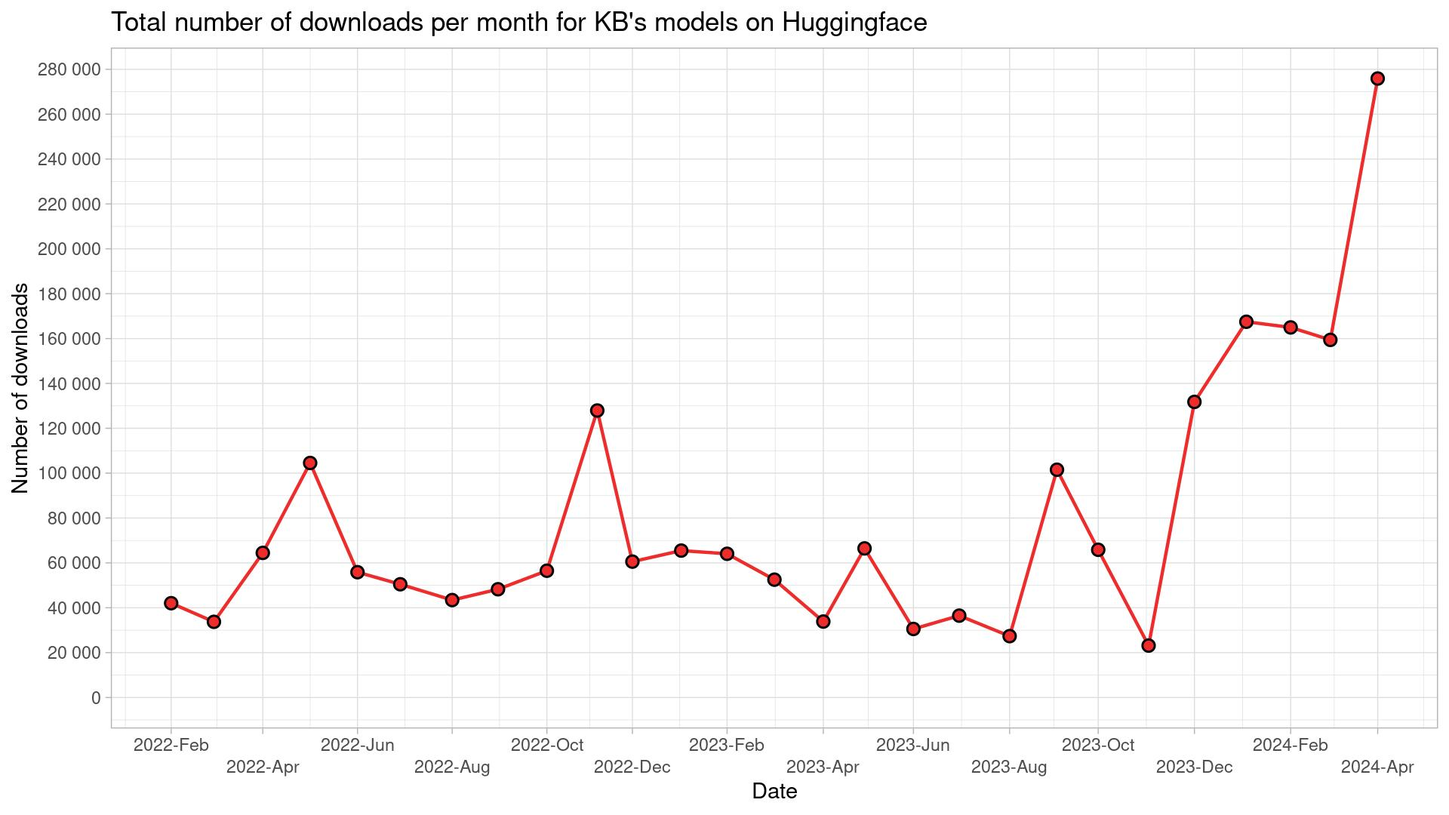
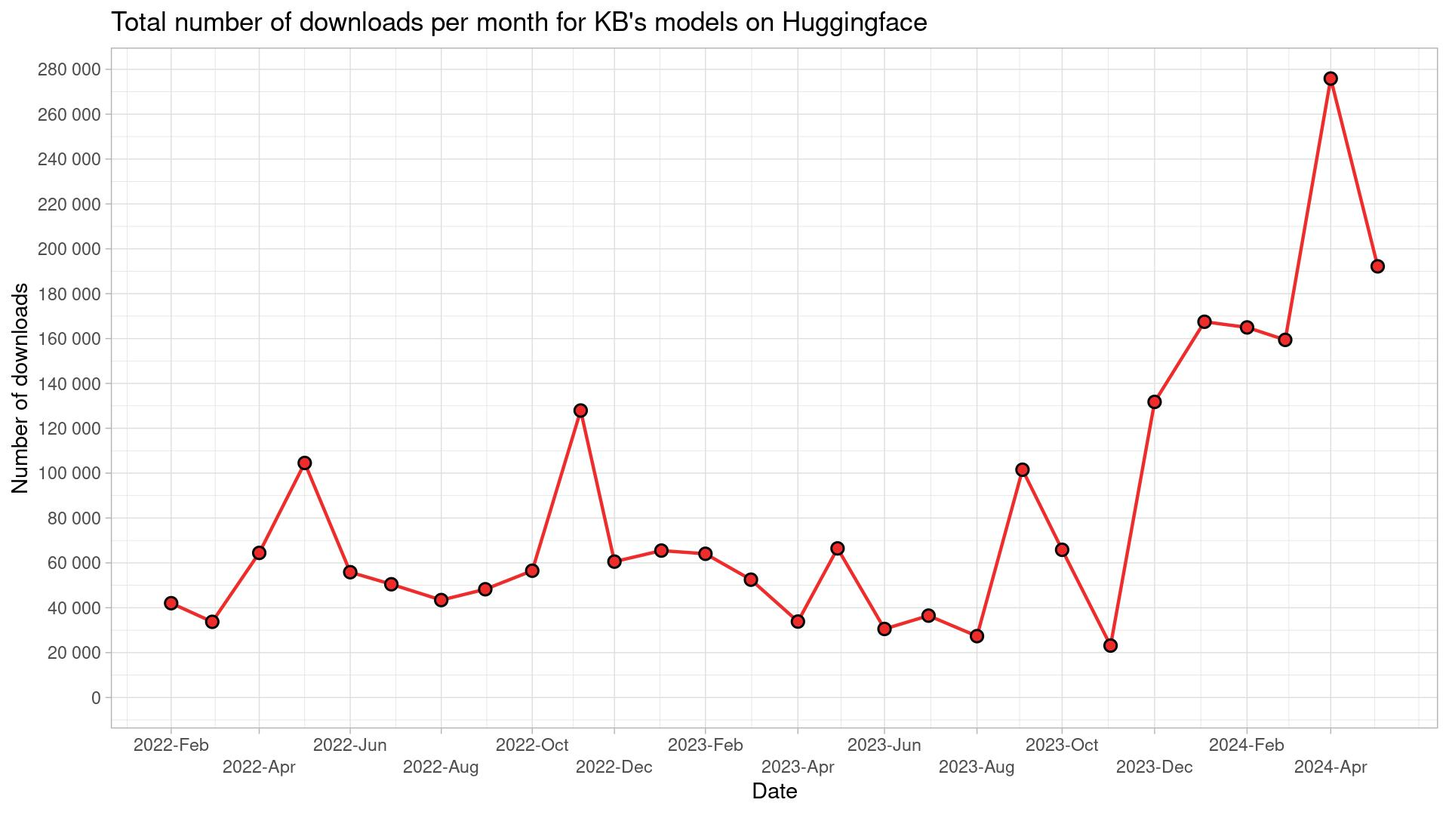
May 2024 update

diff --git a/README.md b/README.md
@@ -12,42 +12,61 @@ Script is run monthly, and a monthly `csv`-file outputted to `/data` folder.
 
 ## Table of downloads
 
-|model_name                                        | 2022-02| 2022-03| 2022-04| 2022-05| 2022-06| 2022-07| 2022-08| 2022-09| 2022-10| 2022-11| 2022-12| 2023-01| 2023-02| 2023-03| 2023-04| 2023-05| 2023-06| 2023-07| 2023-08| 2023-09| 2023-10| 2023-11| 2023-12| 2024-01| 2024-02| 2024-03| 2024-04|
-|:-------------------------------------------------|-------:|-------:|-------:|-------:|-------:|-------:|-------:|-------:|-------:|-------:|-------:|-------:|-------:|-------:|-------:|-------:|-------:|-------:|-------:|-------:|-------:|-------:|-------:|-------:|-------:|-------:|-------:|
-|albert-base-swedish-cased-alpha                   |     126|     252|      61|      52|      52|      28|      31|      17|      30|      64|     229|      37|      32|      75|      13|      17|      24|      39|      14|      18|       4|      71|      75|      74|      20|      27|     100|
-|asr-voxrex-bart-base                              |      11|      10|      19|       5|       2|       1|       1|       3|       2|       3|       2|       4|       9|      15|       7|       2|       4|       7|       4|       3|       8|       2|       5|       1|       6|       8|       5|
-|bart-base-swedish-cased                           |      74|      12|     116|     126|      32|      18|      41|      56|      81|       6|       9|      18|      41|      70|     110|      60|      50|      40|      23|       9|      63|      44|      42|      11|     129|      14|     119|
-|bert-base-swedish-cased                           |   16509|   25080|   49286|   82528|   38802|   29511|   17012|   25106|   36702|   92636|   44016|   28164|   47819|   28864|   17684|   28878|   16390|   24502|   16303|   54271|   29238|    6625|    7620|   17149|    8106|    6290|   10094|
-|bert-base-swedish-cased-alpha                     |      22|      24|    1362|      34|       8|      73|       7|      14|      14|      14|      10|     160|     151|       6|       9|       5|       6|       9|       2|      12|       3|       4|       5|       3|       5|      11|      15|
-|bert-base-swedish-cased-ner                       |   19891|    3353|    4783|    4221|   12487|   17406|   24290|   20200|   14852|   11251|   10014|    9759|    9957|   14508|    9834|   12293|    9868|    9701|    8258|    8767|   14214|   10149|  117977|  143050|  139912|  131659|  148695|
-|bert-base-swedish-cased-neriob                    |       8|      87|      34|      25|       4|      44|       2|       1|      62|      10|       5|      31|       5|       8|       6|       6|       9|      18|       2|       1|       0|      19|       8|       5|       5|      11|      15|
-|bert-base-swedish-cased-new                       |      NA|       0|     377|    1069|     786|      10|     238|      69|     225|     168|     163|      46|      44|     352|     303|      33|      52|      69|      73|     211|      96|      84|      30|      34|       5|      53|      59|
-|bert-base-swedish-cased-pos                       |     428|     179|     107|     104|     168|     310|       2|       2|     467|    7959|    2083|   21410|    1713|     300|      15|      28|      58|      64|       9|      75|      28|     312|     159|     166|     239|      33|      20|
-|bert-base-swedish-cased-reallysimple-ner          |       6|      32|       9|       7|      11|      10|       3|       8|      10|      17|       4|      16|     159|     401|     211|     334|     327|     326|      74|     152|     341|     304|     274|       3|       7|      14|      14|
-|bert-base-swedish-cased-squad-experimental        |     323|     136|      45|      23|      40|     182|      25|      27|     101|      10|      22|      62|      56|     643|     130|   16262|      29|      29|       4|      16|      10|     280|      64|      34|     275|      30|      44|
-|bert-base-swedish-lowermix-reallysimple-ner       |       6|     453|     248|     312|     901|     991|     930|     871|    2274|    3958|    1963|    3010|    2567|    2485|    3919|    6258|    2875|     121|      53|     417|    4874|     769|     327|     713|      81|     111|     696|
-|electra-base-swedish-cased-discriminator          |     317|     143|     149|    1404|       2|       3|       3|       3|       2|       5|       0|       7|       2|       0|       6|       7|       4|       8|       0|       1|       0|       4|       0|       1|       4|       5|      15|
-|electra-base-swedish-cased-generator              |       9|      15|      26|      31|       2|      19|       1|      18|       1|       9|       4|      10|       4|      14|      88|      78|     107|      72|       3|      15|      39|      12|       7|      11|       8|      52|      53|
-|electra-small-swedish-cased-discriminator         |      12|       5|    1467|    3804|      10|       5|       2|       2|       2|      10|       8|      12|     153|       1|       9|       2|       6|       4|      18|       6|       0|       3|       0|       7|      11|      13|       9|
-|electra-small-swedish-cased-generator             |      NA|       3|     138|      14|       4|      19|       2|       3|       4|       8|       6|      11|       4|       3|       6|      14|       4|       9|       0|       1|       0|     131|       5|       3|       5|       9|      13|
-|emotional-classification                          |      NA|      NA|      NA|      NA|      NA|      NA|      NA|      NA|      NA|      NA|      NA|      NA|      NA|      NA|      NA|      NA|      NA|     155|       3|       1|       2|      27|       9|       0|       0|      13|      63|
-|megatron-bert-base-swedish-cased-125k             |      NA|       0|     353|       0|       2|       8|       1|       3|     131|      55|     158|      27|      21|      19|       7|       6|      10|      10|       4|       2|       0|       4|      29|      22|       5|       3|       4|
-|megatron-bert-base-swedish-cased-600k             |      NA|      10|     288|      87|      30|      16|      16|      17|     111|      12|      20|     194|      27|      49|      13|      15|     100|      22|       2|       2|      15|      12|      41|      21|       5|      67|       6|
-|megatron-bert-large-swedish-cased-110k            |      NA|       0|     346|      77|       4|       4|       0|       1|       1|     171|     160|      15|       8|      23|       4|       2|       4|       3|       0|   33671|   14716|      38|      63|     106|      29|      70|      79|
-|megatron-bert-large-swedish-cased-165-zero-shot   |      NA|      NA|      NA|      NA|      NA|      NA|      NA|      NA|      NA|      NA|       5|      55|      26|      63|      20|     621|      69|     135|      58|     170|      48|     243|     123|      40|     127|     147|      56|
-|megatron-bert-large-swedish-cased-165k            |      NA|      NA|       9|      13|      40|      19|      53|       2|      18|     336|     327|      21|      34|      67|      43|      56|      36|      52|      13|      86|      37|      12|     343|     153|      24|      18|      24|
-|megatron.bert-large.unigram-64k-pretok.500k-steps |      NA|      NA|      NA|      NA|      NA|      NA|      NA|      NA|      NA|      NA|      NA|      NA|      NA|      NA|      NA|      NA|      NA|      NA|      NA|      NA|      NA|      NA|      NA|      NA|      NA|     310|      11|
-|piper-tts-nst-swedish                             |      NA|      NA|      NA|      NA|      NA|      NA|      NA|      NA|      NA|      NA|      NA|      NA|      NA|      NA|      NA|       1|       8|       3|       0|       0|       0|       1|       0|       0|       0|       3|       7|
-|roberta-base-swedish-cased                        |       7|       7|     471|       8|      78|       5|      67|       2|       0|       5|       5|      37|     150|       3|       6|     204|      10|       9|       1|       2|       2|       2|       3|       3|      30|      15|       9|
-|robust-swedish-sentiment-multiclass               |      NA|      NA|      NA|      NA|      NA|      NA|      NA|      NA|      NA|      NA|      NA|      NA|      NA|      NA|      NA|      NA|      12|     296|       8|      58|     119|    1505|    2263|    2206|    2178|    2895|    7783|
-|sentence-bert-swedish-cased                       |    2033|    1988|    2079|    8110|     721|    1299|     304|    1157|     597|    1008|     887|    1441|     546|    3499|     955|     970|     327|     328|    2135|    2841|    1071|    1067|    1258|     383|    1733|    6143|  101722|
-|swedish-spacy-pipeline                            |      65|      22|       5|       2|       5|       9|       1|       2|       0|       1|       3|       4|       6|      90|       3|       1|       0|       1|       3|       9|       5|       5|       5|       3|      56|       5|       4|
-|wav2vec2-base-voxpopuli-sv-swedish                |      NA|      21|      19|       7|       1|      NA|       1|       5|      99|       6|       2|      13|      57|      12|      56|       4|      26|       9|       0|       1|       7|       4|       2|     113|       5|       6|      12|
-|wav2vec2-large-voxpopuli-sv-swedish               |      58|      32|      73|      57|      24|       5|       5|      11|      59|      15|       7|      23|       9|      10|      13|      10|       7|      14|       4|       1|       5|      26|       2|       3|      12|     117|      14|
-|wav2vec2-large-voxrex                             |     780|     609|     996|      57|     102|      55|      13|      34|      74|       4|       0|      56|      17|      11|       8|      17|       4|      15|       2|       1|      13|       6|       3|       1|      12|      10|      10|
-|wav2vec2-large-voxrex-swedish                     |    1356|    1151|    1534|    2331|    1277|     334|     361|     611|     531|   10157|     146|     770|     411|     732|     290|     225|      65|     330|     217|     624|     752|     769|     829|     392|    3000|    2389|    3129|
-|wav2vec2-large-xlsr-53-swedish                    |      NA|     112|      55|      32|     259|      91|      19|       9|      61|      26|     307|      71|      32|      76|      26|      31|      45|      65|      50|      77|     126|     586|     188|    2766|    8897|    8785|    2962|
-|whisper-large-rixvox                              |      NA|      NA|      NA|      NA|      NA|      NA|      NA|      NA|      NA|      NA|      NA|      NA|      NA|     113|      56|       8|       9|      12|       9|       6|       0|      16|       0|       2|      19|      38|      18|
-|whisper-small-rixvox                              |      NA|      NA|      NA|      NA|      NA|      NA|      NA|      NA|      NA|      NA|      NA|      NA|      NA|       3|       1|       6|       2|       7|       0|       0|       0|       1|       0|       0|       0|      13|       2|
-|whisper-tiny-rixvox                               |      NA|      NA|      NA|      NA|      NA|      NA|      NA|      NA|      NA|      NA|      NA|      NA|      NA|       9|       1|       5|       4|       7|       3|       0|       0|       1|       0|       0|       2|      12|       6|
-> 
+|model_name                                           | 2022-02| 2022-03| 2022-04| 2022-05| 2022-06| 2022-07| 2022-08| 2022-09| 2022-10| 2022-11| 2022-12| 2023-01| 2023-02| 2023-03| 2023-04| 2023-05| 2023-06| 2023-07| 2023-08| 2023-09| 2023-10| 2023-11| 2023-12| 2024-01| 2024-02| 2024-03| 2024-04| 2024-05|
+|:----------------------------------------------------|-------:|-------:|-------:|-------:|-------:|-------:|-------:|-------:|-------:|-------:|-------:|-------:|-------:|-------:|-------:|-------:|-------:|-------:|-------:|-------:|-------:|-------:|-------:|-------:|-------:|-------:|-------:|-------:|
+|albert-base-swedish-cased-alpha                      |     126|     252|      61|      52|      52|      28|      31|      17|      30|      64|     229|      37|      32|      75|      13|      17|      24|      39|      14|      18|       4|      71|      75|      74|      20|      27|     100|     220|
+|asr-voxrex-bart-base                                 |      11|      10|      19|       5|       2|       1|       1|       3|       2|       3|       2|       4|       9|      15|       7|       2|       4|       7|       4|       3|       8|       2|       5|       1|       6|       8|       5|       8|
+|bart-base-swedish-cased                              |      74|      12|     116|     126|      32|      18|      41|      56|      81|       6|       9|      18|      41|      70|     110|      60|      50|      40|      23|       9|      63|      44|      42|      11|     129|      14|     119|      14|
+|bert-base-swedish-cased                              |   16509|   25080|   49286|   82528|   38802|   29511|   17012|   25106|   36702|   92636|   44016|   28164|   47819|   28864|   17684|   28878|   16390|   24502|   16303|   54271|   29238|    6625|    7620|   17149|    8106|    6290|   10094|    6253|
+|bert-base-swedish-cased-alpha                        |      22|      24|    1362|      34|       8|      73|       7|      14|      14|      14|      10|     160|     151|       6|       9|       5|       6|       9|       2|      12|       3|       4|       5|       3|       5|      11|      15|       2|
+|bert-base-swedish-cased-ner                          |   19891|    3353|    4783|    4221|   12487|   17406|   24290|   20200|   14852|   11251|   10014|    9759|    9957|   14508|    9834|   12293|    9868|    9701|    8258|    8767|   14214|   10149|  117977|  143050|  139912|  131659|  148695|  144309|
+|bert-base-swedish-cased-neriob                       |       8|      87|      34|      25|       4|      44|       2|       1|      62|      10|       5|      31|       5|       8|       6|       6|       9|      18|       2|       1|       0|      19|       8|       5|       5|      11|      15|       3|
+|bert-base-swedish-cased-new                          |      NA|       0|     377|    1069|     786|      10|     238|      69|     225|     168|     163|      46|      44|     352|     303|      33|      52|      69|      73|     211|      96|      84|      30|      34|       5|      53|      59|     279|
+|bert-base-swedish-cased-pos                          |     428|     179|     107|     104|     168|     310|       2|       2|     467|    7959|    2083|   21410|    1713|     300|      15|      28|      58|      64|       9|      75|      28|     312|     159|     166|     239|      33|      20|      12|
+|bert-base-swedish-cased-reallysimple-ner             |       6|      32|       9|       7|      11|      10|       3|       8|      10|      17|       4|      16|     159|     401|     211|     334|     327|     326|      74|     152|     341|     304|     274|       3|       7|      14|      14|       4|
+|bert-base-swedish-cased-squad-experimental           |     323|     136|      45|      23|      40|     182|      25|      27|     101|      10|      22|      62|      56|     643|     130|   16262|      29|      29|       4|      16|      10|     280|      64|      34|     275|      30|      44|       4|
+|bert-base-swedish-lowermix-reallysimple-ner          |       6|     453|     248|     312|     901|     991|     930|     871|    2274|    3958|    1963|    3010|    2567|    2485|    3919|    6258|    2875|     121|      53|     417|    4874|     769|     327|     713|      81|     111|     696|     104|
+|electra-base-swedish-cased-discriminator             |     317|     143|     149|    1404|       2|       3|       3|       3|       2|       5|       0|       7|       2|       0|       6|       7|       4|       8|       0|       1|       0|       4|       0|       1|       4|       5|      15|       2|
+|electra-base-swedish-cased-generator                 |       9|      15|      26|      31|       2|      19|       1|      18|       1|       9|       4|      10|       4|      14|      88|      78|     107|      72|       3|      15|      39|      12|       7|      11|       8|      52|      53|       6|
+|electra-small-swedish-cased-discriminator            |      12|       5|    1467|    3804|      10|       5|       2|       2|       2|      10|       8|      12|     153|       1|       9|       2|       6|       4|      18|       6|       0|       3|       0|       7|      11|      13|       9|       4|
+|electra-small-swedish-cased-generator                |      NA|       3|     138|      14|       4|      19|       2|       3|       4|       8|       6|      11|       4|       3|       6|      14|       4|       9|       0|       1|       0|     131|       5|       3|       5|       9|      13|       2|
+|emotional-classification                             |      NA|      NA|      NA|      NA|      NA|      NA|      NA|      NA|      NA|      NA|      NA|      NA|      NA|      NA|      NA|      NA|      NA|     155|       3|       1|       2|      27|       9|       0|       0|      13|      63|       1|
+|megatron-bert-base-swedish-cased-125k                |      NA|       0|     353|       0|       2|       8|       1|       3|     131|      55|     158|      27|      21|      19|       7|       6|      10|      10|       4|       2|       0|       4|      29|      22|       5|       3|       4|      67|
+|megatron-bert-base-swedish-cased-600k                |      NA|      10|     288|      87|      30|      16|      16|      17|     111|      12|      20|     194|      27|      49|      13|      15|     100|      22|       2|       2|      15|      12|      41|      21|       5|      67|       6|      71|
+|megatron-bert-large-swedish-cased-110k               |      NA|       0|     346|      77|       4|       4|       0|       1|       1|     171|     160|      15|       8|      23|       4|       2|       4|       3|       0|   33671|   14716|      38|      63|     106|      29|      70|      79|      43|
+|megatron-bert-large-swedish-cased-165-zero-shot      |      NA|      NA|      NA|      NA|      NA|      NA|      NA|      NA|      NA|      NA|       5|      55|      26|      63|      20|     621|      69|     135|      58|     170|      48|     243|     123|      40|     127|     147|      56|     123|
+|megatron-bert-large-swedish-cased-165k               |      NA|      NA|       9|      13|      40|      19|      53|       2|      18|     336|     327|      21|      34|      67|      43|      56|      36|      52|      13|      86|      37|      12|     343|     153|      24|      18|      24|      15|
+|megatron.bert-base.bpe-32k-no_pretok.25k-steps       |      NA|      NA|      NA|      NA|      NA|      NA|      NA|      NA|      NA|      NA|      NA|      NA|      NA|      NA|      NA|      NA|      NA|      NA|      NA|      NA|      NA|      NA|      NA|      NA|      NA|      NA|      NA|       3|
+|megatron.bert-base.bpe-64k-no_pretok.25k-steps       |      NA|      NA|      NA|      NA|      NA|      NA|      NA|      NA|      NA|      NA|      NA|      NA|      NA|      NA|      NA|      NA|      NA|      NA|      NA|      NA|      NA|      NA|      NA|      NA|      NA|      NA|      NA|       3|
+|megatron.bert-base.spe-bpe-32k-no_pretok.25k-steps   |      NA|      NA|      NA|      NA|      NA|      NA|      NA|      NA|      NA|      NA|      NA|      NA|      NA|      NA|      NA|      NA|      NA|      NA|      NA|      NA|      NA|      NA|      NA|      NA|      NA|      NA|      NA|       3|
+|megatron.bert-base.spe-bpe-32k-pretok.25k-steps      |      NA|      NA|      NA|      NA|      NA|      NA|      NA|      NA|      NA|      NA|      NA|      NA|      NA|      NA|      NA|      NA|      NA|      NA|      NA|      NA|      NA|      NA|      NA|      NA|      NA|      NA|      NA|       3|
+|megatron.bert-base.spe-bpe-64k-no_pretok.25k-steps   |      NA|      NA|      NA|      NA|      NA|      NA|      NA|      NA|      NA|      NA|      NA|      NA|      NA|      NA|      NA|      NA|      NA|      NA|      NA|      NA|      NA|      NA|      NA|      NA|      NA|      NA|      NA|       3|
+|megatron.bert-base.spe-bpe-64k-pretok.25k-steps      |      NA|      NA|      NA|      NA|      NA|      NA|      NA|      NA|      NA|      NA|      NA|      NA|      NA|      NA|      NA|      NA|      NA|      NA|      NA|      NA|      NA|      NA|      NA|      NA|      NA|      NA|      NA|       3|
+|megatron.bert-base.unigram-32k-no_pretok.25k-steps   |      NA|      NA|      NA|      NA|      NA|      NA|      NA|      NA|      NA|      NA|      NA|      NA|      NA|      NA|      NA|      NA|      NA|      NA|      NA|      NA|      NA|      NA|      NA|      NA|      NA|      NA|      NA|       3|
+|megatron.bert-base.unigram-32k-pretok.25k-steps      |      NA|      NA|      NA|      NA|      NA|      NA|      NA|      NA|      NA|      NA|      NA|      NA|      NA|      NA|      NA|      NA|      NA|      NA|      NA|      NA|      NA|      NA|      NA|      NA|      NA|      NA|      NA|       3|
+|megatron.bert-base.unigram-64k-no_pretok.25k-steps   |      NA|      NA|      NA|      NA|      NA|      NA|      NA|      NA|      NA|      NA|      NA|      NA|      NA|      NA|      NA|      NA|      NA|      NA|      NA|      NA|      NA|      NA|      NA|      NA|      NA|      NA|      NA|       3|
+|megatron.bert-base.unigram-64k-pretok.25k-steps      |      NA|      NA|      NA|      NA|      NA|      NA|      NA|      NA|      NA|      NA|      NA|      NA|      NA|      NA|      NA|      NA|      NA|      NA|      NA|      NA|      NA|      NA|      NA|      NA|      NA|      NA|      NA|       3|
+|megatron.bert-base.wordpiece-32k-no_pretok.25k-steps |      NA|      NA|      NA|      NA|      NA|      NA|      NA|      NA|      NA|      NA|      NA|      NA|      NA|      NA|      NA|      NA|      NA|      NA|      NA|      NA|      NA|      NA|      NA|      NA|      NA|      NA|      NA|       3|
+|megatron.bert-base.wordpiece-32k-pretok.25k-steps    |      NA|      NA|      NA|      NA|      NA|      NA|      NA|      NA|      NA|      NA|      NA|      NA|      NA|      NA|      NA|      NA|      NA|      NA|      NA|      NA|      NA|      NA|      NA|      NA|      NA|      NA|      NA|       9|
+|megatron.bert-base.wordpiece-64k-no_pretok.25k-steps |      NA|      NA|      NA|      NA|      NA|      NA|      NA|      NA|      NA|      NA|      NA|      NA|      NA|      NA|      NA|      NA|      NA|      NA|      NA|      NA|      NA|      NA|      NA|      NA|      NA|      NA|      NA|       3|
+|megatron.bert-base.wordpiece-64k-pretok.25k-steps    |      NA|      NA|      NA|      NA|      NA|      NA|      NA|      NA|      NA|      NA|      NA|      NA|      NA|      NA|      NA|      NA|      NA|      NA|      NA|      NA|      NA|      NA|      NA|      NA|      NA|      NA|      NA|       3|
+|megatron.bert-large.bpe-64k-no_pretok.25k-steps      |      NA|      NA|      NA|      NA|      NA|      NA|      NA|      NA|      NA|      NA|      NA|      NA|      NA|      NA|      NA|      NA|      NA|      NA|      NA|      NA|      NA|      NA|      NA|      NA|      NA|      NA|      NA|       3|
+|megatron.bert-large.spe-bpe-32k-pretok.25k-steps     |      NA|      NA|      NA|      NA|      NA|      NA|      NA|      NA|      NA|      NA|      NA|      NA|      NA|      NA|      NA|      NA|      NA|      NA|      NA|      NA|      NA|      NA|      NA|      NA|      NA|      NA|      NA|       3|
+|megatron.bert-large.unigram-32k-pretok.25k-steps     |      NA|      NA|      NA|      NA|      NA|      NA|      NA|      NA|      NA|      NA|      NA|      NA|      NA|      NA|      NA|      NA|      NA|      NA|      NA|      NA|      NA|      NA|      NA|      NA|      NA|      NA|      NA|       3|
+|megatron.bert-large.unigram-64k-pretok.25k-steps     |      NA|      NA|      NA|      NA|      NA|      NA|      NA|      NA|      NA|      NA|      NA|      NA|      NA|      NA|      NA|      NA|      NA|      NA|      NA|      NA|      NA|      NA|      NA|      NA|      NA|      NA|      NA|       3|
+|megatron.bert-large.unigram-64k-pretok.500k-steps    |      NA|      NA|      NA|      NA|      NA|      NA|      NA|      NA|      NA|      NA|      NA|      NA|      NA|      NA|      NA|      NA|      NA|      NA|      NA|      NA|      NA|      NA|      NA|      NA|      NA|     310|      11|       1|
+|megatron.bert-large.wordpiece-32k-pretok.25k-steps   |      NA|      NA|      NA|      NA|      NA|      NA|      NA|      NA|      NA|      NA|      NA|      NA|      NA|      NA|      NA|      NA|      NA|      NA|      NA|      NA|      NA|      NA|      NA|      NA|      NA|      NA|      NA|       3|
+|megatron.bert-large.wordpiece-64k-pretok.25k-steps   |      NA|      NA|      NA|      NA|      NA|      NA|      NA|      NA|      NA|      NA|      NA|      NA|      NA|      NA|      NA|      NA|      NA|      NA|      NA|      NA|      NA|      NA|      NA|      NA|      NA|      NA|      NA|       9|
+|piper-tts-nst-swedish                                |      NA|      NA|      NA|      NA|      NA|      NA|      NA|      NA|      NA|      NA|      NA|      NA|      NA|      NA|      NA|       1|       8|       3|       0|       0|       0|       1|       0|       0|       0|       3|       7|      11|
+|roberta-base-swedish-cased                           |       7|       7|     471|       8|      78|       5|      67|       2|       0|       5|       5|      37|     150|       3|       6|     204|      10|       9|       1|       2|       2|       2|       3|       3|      30|      15|       9|       3|
+|robust-swedish-sentiment-multiclass                  |      NA|      NA|      NA|      NA|      NA|      NA|      NA|      NA|      NA|      NA|      NA|      NA|      NA|      NA|      NA|      NA|      12|     296|       8|      58|     119|    1505|    2263|    2206|    2178|    2895|    7783|    2968|
+|sentence-bert-swedish-cased                          |    2033|    1988|    2079|    8110|     721|    1299|     304|    1157|     597|    1008|     887|    1441|     546|    3499|     955|     970|     327|     328|    2135|    2841|    1071|    1067|    1258|     383|    1733|    6143|  101722|    8376|
+|swedish-spacy-pipeline                               |      65|      22|       5|       2|       5|       9|       1|       2|       0|       1|       3|       4|       6|      90|       3|       1|       0|       1|       3|       9|       5|       5|       5|       3|      56|       5|       4|       2|
+|wav2vec2-base-voxpopuli-sv-swedish                   |      NA|      21|      19|       7|       1|      NA|       1|       5|      99|       6|       2|      13|      57|      12|      56|       4|      26|       9|       0|       1|       7|       4|       2|     113|       5|       6|      12|       4|
+|wav2vec2-large-voxpopuli-sv-swedish                  |      58|      32|      73|      57|      24|       5|       5|      11|      59|      15|       7|      23|       9|      10|      13|      10|       7|      14|       4|       1|       5|      26|       2|       3|      12|     117|      14|      13|
+|wav2vec2-large-voxrex                                |     780|     609|     996|      57|     102|      55|      13|      34|      74|       4|       0|      56|      17|      11|       8|      17|       4|      15|       2|       1|      13|       6|       3|       1|      12|      10|      10|      20|
+|wav2vec2-large-voxrex-swedish                        |    1356|    1151|    1534|    2331|    1277|     334|     361|     611|     531|   10157|     146|     770|     411|     732|     290|     225|      65|     330|     217|     624|     752|     769|     829|     392|    3000|    2389|    3129|    4330|
+|wav2vec2-large-xlsr-53-swedish                       |      NA|     112|      55|      32|     259|      91|      19|       9|      61|      26|     307|      71|      32|      76|      26|      31|      45|      65|      50|      77|     126|     586|     188|    2766|    8897|    8785|    2962|   24811|
+|whisper-large-rixvox                                 |      NA|      NA|      NA|      NA|      NA|      NA|      NA|      NA|      NA|      NA|      NA|      NA|      NA|     113|      56|       8|       9|      12|       9|       6|       0|      16|       0|       2|      19|      38|      18|      12|
+|whisper-small-rixvox                                 |      NA|      NA|      NA|      NA|      NA|      NA|      NA|      NA|      NA|      NA|      NA|      NA|      NA|       3|       1|       6|       2|       7|       0|       0|       0|       1|       0|       0|       0|      13|       2|       1|
+|whisper-tiny-rixvox                                  |      NA|      NA|      NA|      NA|      NA|      NA|      NA|      NA|      NA|      NA|      NA|      NA|      NA|       9|       1|       5|       4|       7|       3|       0|       0|       1|       0|       0|       2|      12|       6|       1|
